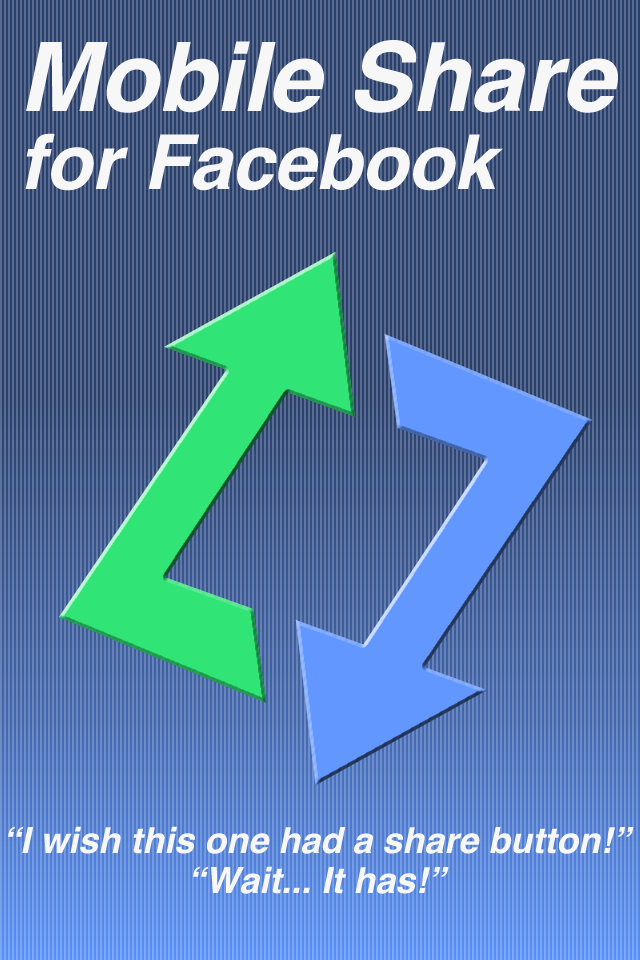
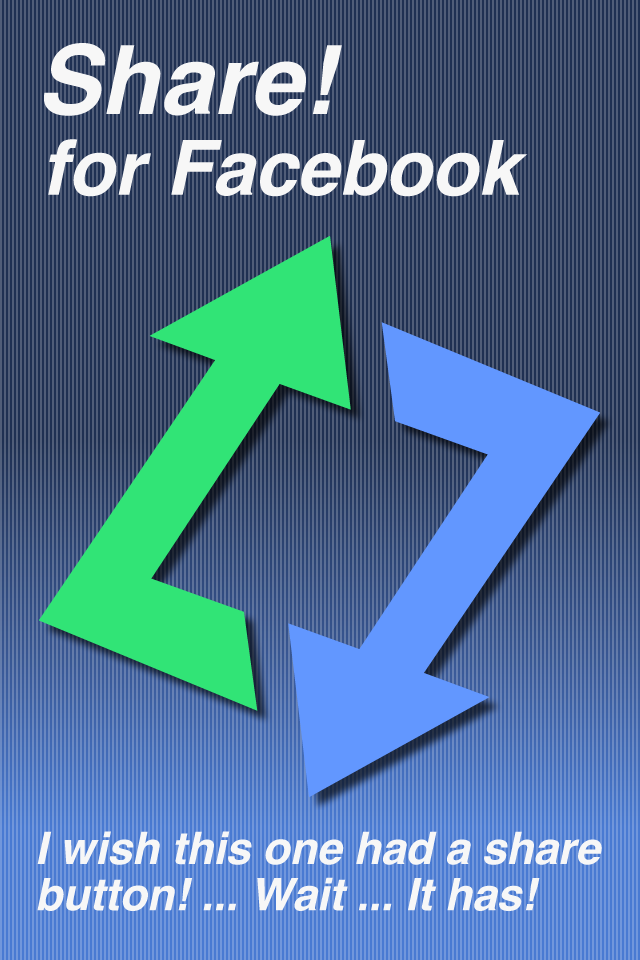
Sharper images.

diff --git a/MobileSharer/Classes/Controllers/LoginViewController.m b/MobileSharer/Classes/Controllers/LoginViewController.m
@@ -42,7 +42,7 @@
     //appStoreUrl = [Etc urlEncode:appStoreUrl];
     //NSString* facebookPageUrl = [Etc urlEncode:@"http://www.facebook.com/apps/application.php?id=139083852806042&v=app_6261817190"];
     NSString* html = @"<img class=\"articleImage\" src=\"bundle://Icon75.png\"/>";
-    html = [NSString stringWithFormat:@"%@Thanks for using Mobile Share! Re-sharing links and movies on Facebook is now as easy as:\n\n\
+    html = [NSString stringWithFormat:@"%@Thanks for using Share! Re-sharing links and movies on Facebook is now as easy as:\n\n\
 1. tap the post containing the link\n\
 2. tap <b>Share</b>\n\
 3. write a message to go with the link\n\
@@ -50,8 +50,8 @@
 If the post you are sharing already has a message you also want to share then use the <b>“Share”</b> button instead. \
 This will quote the message and attribute it to it's original author.\n\n\
 Please test it by sharing this post:\n\n\
-<a href=\"%@\">Mobile Share rocks!</a>\n\n\
-Happy mobile sharing!",
+<a href=\"%@\">Share! rocks</a>\n\n\
+Happy sharing!",
      html, shareItUrl];
     if (_currentUserLoaded) {
       FacebookJanitor* janitor = [FacebookJanitor sharedInstance];
@@ -69,13 +69,13 @@ Happy mobile sharing!",
   }
   else {
     NSString* welcome = @"<div class=\"appInfo\"><img class=\"articleImage\" src=\"bundle://Icon75.png\"/>\
-Welcome to Mobile Share!\n\n\
-To be able to help you follow your Facebook feed and share links Mobile Share needs your permission. Please \
+Welcome to Share!\n\n\
+To be able to help you follow your Facebook feed and share links Share! needs your permission. Please \
 click the login button and grant it.\n\n\
-Mobile Share will never post in your name without you telling it to. Hopefull you will use Mobile Share to tell your \
+Share! will never post in your name without you telling it to. Hopefull you will use Share! to tell your \
 friends you are a happy user of the app anyway. Please do!\n\n\
 Read reviews, ask questions, suggest features, whatever on the \
-<a href=\"http://www.facebook.com/apps/application.php?id=139083852806042\">Mobile Share Facebook page.</a> \
+<a href=\"http://www.facebook.com/apps/application.php?id=139083852806042\">Share! Facebook page.</a> \
 (Please Like that page too.)</div>";
     _contentView.infoLabel.text = [TTStyledText textFromXHTML:welcome lineBreaks:YES URLs:YES];
     _contentView.loginLogoutButton.title = @"Login";
